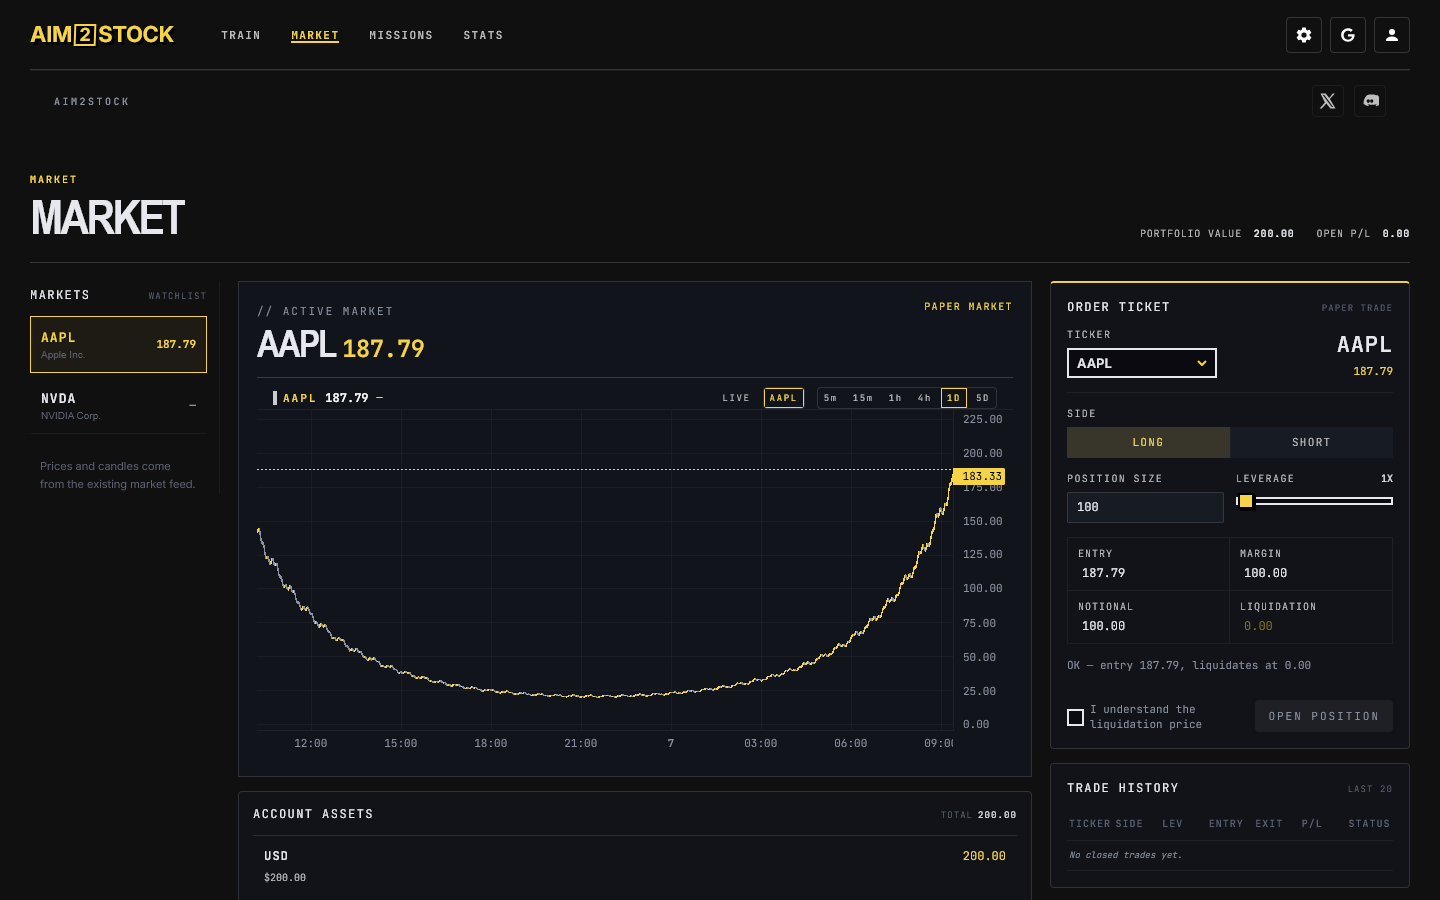
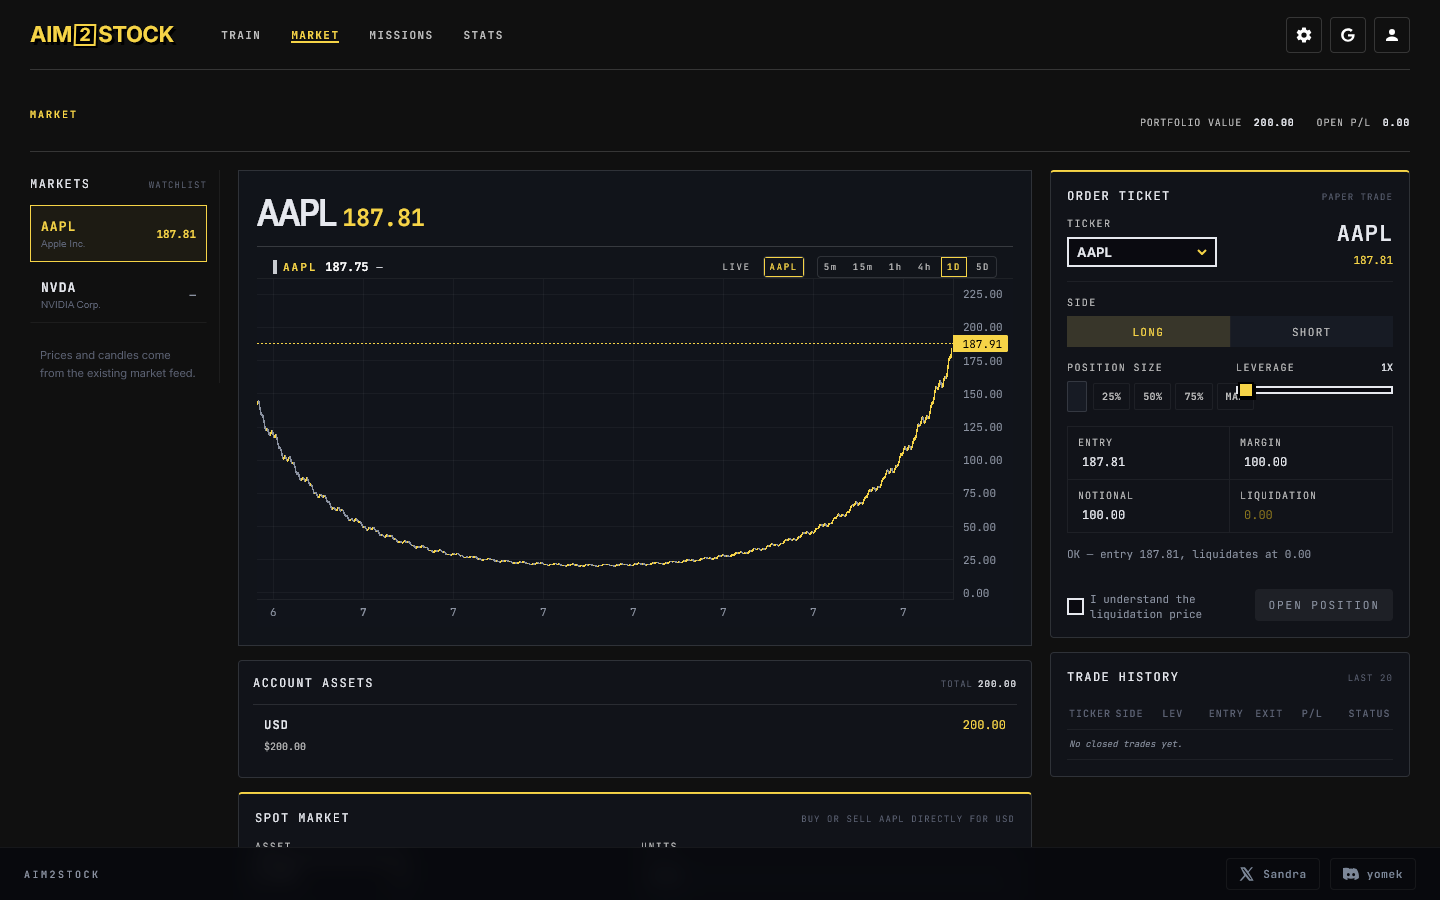
ui cleanup: remove Market/active Market/PAPER dups, add Open balance button in Portfolio, fix chart intraday timeVisible per range

diff --git a/client/index.html b/client/index.html
@@ -31,7 +31,7 @@
 <!-- aim2stock: trading workspace. It lives inside the shared dashboard shell. -->
 <div id="vibes-terminal" hidden>
   <div class="vt-body">
-    <div class="workspace-heading"><div><span class="section-kicker">Market</span><h1>Market</h1></div><div class="workspace-metrics"><span>Portfolio value <b class="num" data-vt-portfolio-total>—</b></span><span>Open P/L <b class="num" data-vt-open-pnl>—</b></span></div></div>
+    <div class="workspace-heading"><div><span class="section-kicker">Market</span></div><div class="workspace-metrics"><span>Portfolio value <b class="num" data-vt-portfolio-total>—</b></span><span>Open P/L <b class="num" data-vt-open-pnl>—</b></span></div></div>
     <aside class="vt-watchlist">
       <div class="vt-section-head"><span>Markets</span><small>Watchlist</small></div>
       <button type="button" class="vt-watch active" data-vt-watch="AAPL"><span><b>AAPL</b><small>Apple Inc.</small></span><strong data-vt-watch-price="AAPL">—</strong></button>
@@ -41,7 +41,7 @@
 
     <main class="vt-market-center">
       <section class="vt-chart-shell">
-        <div class="vt-chart-head"><div><span class="vt-kicker">// active market</span><h1><span data-vt-market-ticker>AAPL</span> <em data-vt-market-price>—</em></h1></div><span class="vt-market-state">PAPER MARKET</span></div>
+        <div class="vt-chart-head"><div><h1><span data-vt-market-ticker>AAPL</span> <em data-vt-market-price>—</em></h1></div></div>
         <div class="vt-chart-slot" data-vt-chart-slot></div>
       </section>
       <section class="vt-section vt-assets">
@@ -66,7 +66,7 @@
         <div class="vt-section-head"><span>Order ticket</span><small>Paper trade</small></div>
         <div class="vt-order-market"><div><span class="vt-field-label">Ticker</span><select data-vt-ot-ticker><option value="AAPL">AAPL</option><option value="NVDA">NVDA</option></select></div><div class="vt-order-quote"><strong data-vt-ot-symbol>AAPL</strong><span data-vt-ot-price>—</span></div></div>
         <div class="vt-order-field"><span class="vt-field-label">Side</span><div class="vt-side-toggle" role="group" aria-label="Position side"><button type="button" data-vt-side-choice="long" class="active">Long</button><button type="button" data-vt-side-choice="short">Short</button></div><select data-vt-ot-side class="vt-side-native" aria-hidden="true" tabindex="-1"><option value="long">long</option><option value="short">short</option></select></div>
-        <div class="vt-order-field-grid"><label class="vt-control"><span class="vt-field-label">Position size</span><input type="number" min="10" step="10" value="100" data-vt-ot-notional></label><label class="vt-control"><span class="vt-field-label">Leverage <b class="num" data-vt-ot-leverage-num>1x</b></span><input type="range" min="1" max="20" step="1" value="1" data-vt-ot-leverage></label></div>
+        <div class="vt-order-field-grid"><label class="vt-control"><span class="vt-field-label">Position size</span><span class="vt-input-row"><input type="number" min="10" step="10" value="100" data-vt-ot-notional><span class="vt-pct-row" role="group" aria-label="Position size percent"><button type="button" data-vt-ot-pct="25">25%</button><button type="button" data-vt-ot-pct="50">50%</button><button type="button" data-vt-ot-pct="75">75%</button><button type="button" data-vt-ot-pct="100">MAX</button></span></span></label><label class="vt-control"><span class="vt-field-label">Leverage <b class="num" data-vt-ot-leverage-num>1x</b></span><input type="range" min="1" max="20" step="1" value="1" data-vt-ot-leverage></label></div>
         <div class="vt-readout"><div><span>Entry</span><strong class="num" data-vt-ot-entry>—</strong></div><div><span>Margin</span><strong class="num" data-vt-ot-margin>—</strong></div><div><span>Notional</span><strong class="num" data-vt-ot-notional-total>—</strong></div><div class="neg"><span>Liquidation</span><strong class="num" data-vt-ot-liq>—</strong></div></div>
         <div class="vt-status" data-vt-ot-status>Pick a ticker to load the live price.</div>
         <div class="vt-confirm"><label><input type="checkbox" data-vt-ot-confirm-chk> I understand the liquidation price</label><button type="button" class="vt-btn vt-btn-primary" data-vt-ot-submit disabled>Open position</button></div>
@@ -177,9 +177,9 @@
 
         <aside class="market-column" data-dashboard-section-target="market">
           <section class="portfolio-panel">
-            <div class="panel-heading compact"><div><span class="section-kicker">Portfolio</span><h2>Your position</h2></div><span class="live-state"><i></i> PAPER</span></div>
+            <div class="panel-heading compact"><div><span class="section-kicker">Portfolio</span><h2>Holdings</h2></div><button type="button" class="panel-action" id="vibes-open-balance">Open balance</button></div>
             <div class="portfolio-total"><span data-dashboard-portfolio-total>200.00</span><small>USD portfolio total</small></div>
-            <div class="portfolio-line"></div>
+            <div class="portfolio-tokens" data-dashboard-tokens aria-label="Token balances"></div>
           </section>
 
           <section class="market-panel">
@@ -358,6 +358,7 @@
   document.querySelector('[data-dashboard-home]')?.addEventListener('click', () => setWorkspace('train'));
   document.querySelectorAll('[data-dashboard-section]').forEach((link) => link.addEventListener('click', () => setWorkspace(link.dataset.dashboardSection)));
   document.getElementById('vibes-open-terminal-secondary')?.addEventListener('click', () => setWorkspace('market'));
+  document.getElementById('vibes-open-balance')?.addEventListener('click', () => setWorkspace('market'));
   document.querySelectorAll('[data-vt-watch]').forEach((watch) => watch.addEventListener('click', () => {
     const ticker = watch.dataset.vtWatch;
     const chartTicker = chartPanel?.querySelector(`[data-vc-ticker-btn="${ticker}"]`);

diff --git a/client/css/style.css b/client/css/style.css
@@ -886,6 +886,31 @@ canvas#game {
 #menu .live-state { color: var(--dash-accent); font: 9px var(--font-mono); letter-spacing: .12em; }
 #menu .live-state i { display: inline-block; width: 5px; height: 5px; border-radius: 50%; background: var(--dash-accent); margin-right: 5px; vertical-align: 1px; }
 #menu .portfolio-total { margin-top: 20px; color: var(--fg); font: 600 34px var(--font-mono); letter-spacing: -.05em; }
+/* Order ticket: input row with percentage quick-buttons stacked on the right.
+   Mirrors the layout used by Binance / Uniswap for fast percentage picks. */
+.vt-input-row { display: flex; align-items: center; gap: 6px; flex: 1; }
+.vt-input-row > input { flex: 1; min-width: 0; }
+.vt-pct-row { display: inline-flex; gap: 4px; }
+.vt-pct-row button {
+  padding: 6px 8px;
+  background: transparent;
+  border: 1px solid var(--line);
+  color: var(--dash-muted);
+  font: 700 10px var(--font-mono);
+  letter-spacing: .04em;
+  border-radius: 2px;
+  cursor: pointer;
+  transition: color .12s ease, border-color .12s ease, background .12s ease;
+}
+.vt-pct-row button:hover { color: var(--accent); border-color: var(--accent); }
+.vt-pct-row button.active { color: #f6d447; border-color: #f6d447; background: rgba(246,212,71,.08); }
+#menu .portfolio-tokens { display: flex; flex-wrap: wrap; gap: 8px; margin-top: 16px; }
+#menu .tok-card { flex: 1 1 calc(33.333% - 8px); min-width: 110px; padding: 10px 12px; background: rgba(246,212,71,.04); border: 1px solid rgba(246,212,71,.18); box-shadow: 2px 2px 0 #000; }
+#menu .tok-card.tok-free { background: rgba(255,255,255,.025); border-color: var(--line); }
+#menu .tok-symbol { font: 700 13px var(--font-mono); letter-spacing: .06em; color: var(--accent); }
+#menu .tok-card.tok-free .tok-symbol { color: var(--fg); }
+#menu .tok-name { font-size: 9px; letter-spacing: .18em; color: var(--dim); text-transform: uppercase; margin-top: 2px; }
+#menu .tok-qty { font: 600 16px var(--font-mono); color: var(--fg); margin-top: 4px; letter-spacing: -.02em; }
 #menu .portfolio-total small, #menu .portfolio-change small { display: block; color: var(--dash-muted); font: 10px var(--font-mono); letter-spacing: .08em; margin-top: 5px; }
 #menu .portfolio-change { margin-top: 22px; color: var(--dash-accent); font: 600 18px var(--font-mono); }
 #menu .portfolio-line { height: 32px; margin-top: 20px; opacity: .7; background: linear-gradient(155deg, transparent 4%, transparent 18%, rgba(246,212,71,.15) 19%, rgba(246,212,71,.6) 21%, transparent 22%, transparent 37%, rgba(246,212,71,.35) 38%, rgba(246,212,71,.6) 40%, transparent 41%, transparent 52%, rgba(246,212,71,.35) 53%, rgba(246,212,71,.55) 55%, transparent 56%, transparent 68%, rgba(246,212,71,.3) 69%, rgba(246,212,71,.5) 71%, transparent 72%); border-bottom: 1px solid rgba(246,212,71,.25); }
@@ -1546,7 +1571,7 @@ canvas, #game, #crosshair, #hitmarker { -webkit-user-select: none; user-select: 
 #menu .app-shell > #vibes-missions .vm-status { color: var(--dash-muted); text-transform: uppercase; letter-spacing: .1em; }
 #menu .app-shell > #vibes-missions .vm-status.done { color: #f6d447; }
 #menu .app-shell > #vibes-missions .vm-status.claimed { color: var(--dash-muted); }
-#menu .app-shell > #vibes-missions .vm-claim-btn { margin-left: auto; padding: 3px 8px; border: 1px solid rgba(246,212,71,.55); border-radius: 2px; background: transparent; color: #f6d447; font: 10px var(--font-mono); letter-spacing: .13em; text-transform: uppercase; cursor: pointer; }
+#menu .app-shell > #vibes-missions .vm-claim-btn { margin-left: auto; padding: 8px 14px; border: 1px solid rgba(246,212,71,.55); border-radius: 2px; background: transparent; color: #f6d447; font: 10px var(--font-mono); letter-spacing: .13em; text-transform: uppercase; cursor: pointer; white-space: nowrap; }
 #menu .app-shell > #vibes-missions .vm-claim-btn:hover { background: rgba(246,212,71,.1); }
 #menu .app-shell > #vibes-missions .vm-progress { width: 100%; max-width: none; height: 3px; margin-top: 10px; border-radius: 0; background: rgba(160,174,194,.14); }
 #menu .app-shell > #vibes-missions .vm-bar { background: #f6d447; box-shadow: none; }

diff --git a/client/js/game.js b/client/js/game.js
@@ -743,6 +743,37 @@ export function boot() {
     }
     const recent = history.slice().sort((a, b) => (b.d || 0) - (a.d || 0));
     const latest = recent[0];
+
+    // Token balance cards (USD / AAPL / NVDA / ...). Reads straight from
+    // the store which is kept in sync by /portfolio. Only renders tokens
+    // that actually have a non-zero balance so the panel stays tidy.
+    const tokensEl = document.querySelector('[data-dashboard-tokens]');
+    if (tokensEl) {
+      const s = window.store && window.store.state;
+      const balances = (s && s.balances) || {};
+      const stable = (s && s.player && Number(s.player.stable)) || 0;
+      const cards = [];
+      // Stable coin first so the user always sees their cash position.
+      cards.push({ sym: 'USD', name: 'USD stable', qty: stable, kind: 'free' });
+      // Then every held ticker (only if balance is non-zero).
+      const tickers = Object.keys(balances)
+        .filter((t) => t !== 'USD' && balances[t] > 0)
+        .map((t) => ({ sym: t, qty: balances[t] }));
+      const nameOf = (sym) => (sym === 'AAPL' ? 'Apple Inc.' : sym === 'NVDA' ? 'NVIDIA Corp.' : sym);
+      for (const t of tickers) {
+        cards.push({ sym: t.sym, name: nameOf(t.sym), qty: t.qty, kind: 'token' });
+      }
+      tokensEl.innerHTML = cards.map((c) => {
+        const qtyText = c.sym === 'USD' ? c.qty.toFixed(2) : c.qty.toFixed(4);
+        const kindClass = c.kind === 'free' ? 'tok-free' : 'tok-token';
+        return `<div class="tok-card ${kindClass}" data-tok-symbol="${c.sym}">
+          <div class="tok-symbol">${c.sym}</div>
+          <div class="tok-name">${c.name}</div>
+          <div class="tok-qty"><b>${qtyText}</b></div>
+        </div>`;
+      }).join('');
+    }
+
     const put = (selector, value) => document.querySelectorAll(selector).forEach(el => { el.textContent = value; });
     const records = document.querySelector('[data-mode-records]');
     if (records) {
@@ -770,17 +801,21 @@ export function boot() {
       }).join('') : '<div class="stats-empty">No sessions yet. Finish a run to create the first record.</div>';
     }
     put('[data-dashboard-sessions]', String(recent.length));
-    put('[data-dashboard-best]', recent.length ? String(Math.max(...recent.map(h => h.score || 0))) : '—');
-    if (latest) {
-      put('[data-recent-mode]', MODE_DEFS[latest.m]?.name || latest.m || 'SESSION');
-      put('[data-recent-score]', String(latest.score || 0));
-      put('[data-recent-accuracy]', (latest.acc ?? 0) + '%');
-    }
-  }
-  function bandStr(g) {
-    return g.bands.map(([r, h, b, l]) => `${r >= 999 ? '50m+' : '0–' + r + 'm'}: ${h}/${b}/${l}`).join(' · ');
-  }
-  function renderLoadout() {
+        put('[data-dashboard-best]', recent.length ? String(Math.max(...recent.map(h => h.score || 0))) : '—');
+        if (latest) {
+          put('[data-recent-mode]', MODE_DEFS[latest.m]?.name || latest.m || 'SESSION');
+          put('[data-recent-score]', String(latest.score || 0));
+          put('[data-recent-accuracy]', (latest.acc ?? 0) + '%');
+        }
+        // Expose for non-module callers (the dashboard token-card subscription
+        // in src/bootstrap.js calls window.renderMenuStats on every store
+        // emit so balances refresh without reopening the menu).
+        if (typeof window !== 'undefined') window.renderMenuStats = renderMenuStats;
+      }
+      function bandStr(g) {
+        return g.bands.map(([r, h, b, l]) => `${r >= 999 ? '50m+' : '0–' + r + 'm'}: ${h}/${b}/${l}`).join(' · ');
+      }
+      function renderLoadout() {
     const clsSel = $('lo-class'), gunSel = $('lo-gun');
     if (!clsSel.options.length) {
       GUN_CLASSES.forEach(c => { const o = document.createElement('option'); o.value = c; o.textContent = c; clsSel.appendChild(o); });

diff --git a/client/js/terminal.js b/client/js/terminal.js
@@ -415,16 +415,38 @@ export function mountTerminal({ root, onClose } = {}) {
     });
   }
   if (els.otNotional) {
-    els.otNotional.addEventListener('input', () => {
-      const n = clampNotional(els.otNotional.value, 1e7);
-      state.notional = n;
-      renderPreview();
+      els.otNotional.addEventListener('input', () => {
+        const n = clampNotional(els.otNotional.value, 1e7);
+        state.notional = n;
+        renderPreview();
+      });
+    }
+    // Percentage quick-buttons (25/50/75/MAX). Sets notional to a fixed
+    // fraction of the player's USD stable balance and updates the preview.
+    // MAX caps at the smaller of (1e7, balance * leverage) so the player
+    // can never borrow beyond what they can actually back with stable.
+    const pctBtns = panel.querySelectorAll('[data-vt-ot-pct]');
+    pctBtns.forEach((btn) => {
+      btn.addEventListener('click', () => {
+        const pct = Number(btn.dataset.vtOtPct);
+        if (!Number.isFinite(pct)) return;
+        const stable = (store.state && store.state.player && Number(store.state.player.stable)) || 0;
+        const lev = Number(state.leverage) || 1;
+        const maxByLev = Math.min(1e7, stable * Math.max(1, lev));
+        const pctAmt = pct === 100 ? maxByLev : Math.max(1, Math.floor((maxByLev * pct) / 100));
+        if (els.otNotional) {
+          els.otNotional.value = String(clampNotional(pctAmt, 1e7));
+          state.notional = clampNotional(pctAmt, 1e7);
+        }
+        // Visually toggle the active state on the percentage buttons.
+        pctBtns.forEach((b) => b.classList.toggle('active', b === btn));
+        renderPreview();
+      });
     });
-  }
-  if (els.convertTicker) {
-    els.convertTicker.addEventListener('change', refreshConvertQuote);
-  }
-  panel.querySelectorAll(SELECTORS.spotSide).forEach((button) => {
+    if (els.convertTicker) {
+      els.convertTicker.addEventListener('change', refreshConvertQuote);
+    }
+    panel.querySelectorAll(SELECTORS.spotSide).forEach((button) => {
     button.addEventListener('click', () => {
       state.spotSide = button.dataset.vtSpotSide;
       panel.querySelectorAll(SELECTORS.spotSide).forEach((b) => b.classList.toggle('active', b === button));
@@ -455,11 +477,23 @@ export function mountTerminal({ root, onClose } = {}) {
   // Subscribe to store changes
   const unsub = store.subscribe(() => refreshAll());
 
-  // First paint
-  refreshAll();
-  refreshQuote();
-  // Re-quote every 5s so the entry price stays fresh
-  const quoteTimer = setInterval(refreshQuote, 5000);
+  // First paint. If the store hasn't been hydrated yet (cold start, no
+    // prior refresh), fetch the defaults before rendering so we don't
+    // paint the empty holdings view first.
+    if (typeof store.refresh === 'function') {
+      const refreshPromise = (!store.state || !store.state.ready)
+        ? store.refresh().catch(() => {})
+        : Promise.resolve();
+      refreshPromise.then(() => {
+        refreshAll();
+        refreshQuote();
+      });
+    } else {
+      refreshAll();
+      refreshQuote();
+    }
+    // Re-quote every 5s so the entry price stays fresh
+    const quoteTimer = setInterval(refreshQuote, 5000);
 
   function unmount() {
     clearInterval(quoteTimer);

diff --git a/client/js/chart.js b/client/js/chart.js
@@ -47,6 +47,14 @@ export function accentColor(t) {
   return '#c9ccd1';
 }
 
+// True when the range spans hours rather than days. Used to decide
+// whether the chart axis labels should show HH:MM (intraday) or a date
+// (1D/5D).
+export function isIntraday(range) {
+  if (!range) return false;
+  return /^(\d+)?[mM]$/.test(range) || /^(\d+)?[hH]$/.test(range);
+}
+
 export function fmtPrice(n) {
   if (n == null || !Number.isFinite(n)) return '—';
   return n.toFixed(2);
@@ -174,7 +182,7 @@ export function mountChart({ root, ticker = 'AAPL', range = '1D' } = {}) {
         vertLines: { color: 'rgba(255,255,255,0.04)' },
         horzLines: { color: 'rgba(255,255,255,0.04)' },
       },
-      timeScale: { timeVisible: true, secondsVisible: false, borderColor: 'rgba(255,255,255,0.06)' },
+      timeScale: { timeVisible: isIntraday(range), secondsVisible: false, borderColor: 'rgba(255,255,255,0.06)' },
       rightPriceScale: { borderColor: 'rgba(255,255,255,0.06)' },
       crosshair: { mode: 1 },
       autoSize: true,
@@ -284,12 +292,17 @@ export function mountChart({ root, ticker = 'AAPL', range = '1D' } = {}) {
     setActiveTicker(t);
   }));
   els.rangeBtns.forEach((b) => b.addEventListener('click', () => {
-    const r = b.dataset.vcRangeBtn;
-    if (!r || r === active.range) return;
-    active.range = r;
-    els.rangeBtns.forEach((x) => x.classList.toggle('active', x === b));
-    loadCandles();
-  }));
+      const r = b.dataset.vcRangeBtn;
+      if (!r || r === active.range) return;
+      active.range = r;
+      els.rangeBtns.forEach((x) => x.classList.toggle('active', x === b));
+      // Show time (HH:MM) only for intraday ranges. Daily+ should be
+      // a date label (Oct 6), which is LWC's default when timeVisible:false.
+      if (chart) {
+        try { chart.timeScale().applyOptions({ timeVisible: isIntraday(r) }); } catch (_) { /* noop */ }
+      }
+      loadCandles();
+    }));
 
   // The ticker buttons live in the markup (AAPL, NVDA). This re-renders
   // them based on the player's unlocks. AAPL is always visible (it's the

diff --git a/client/src/bootstrap.js b/client/src/bootstrap.js
@@ -2,13 +2,24 @@
 // before the UI modules mount. Each panel subscribes to the store, so
 // the first render is the real server data, not an empty placeholder.
 
-import { store } from './store.js?v=20261006-4';
+import { store } from './store.js?v=20261006-7';
 
 if (typeof window !== 'undefined') {
   // Expose the store globally so legacy game.js render hooks (e.g. the
   // end-of-run Combat Report) can read fresh player/mission state without
   // having to refactor the whole engine into ESM imports.
   window.store = store;
+
+  // Re-render the dashboard token cards whenever the store emits. The
+  // dashboard cards live in client/js/game.js renderMenuStats(); we
+  // invoke it from here so any state change (balance, stable, missions)
+  // is reflected without the menu having to be reopened.
+  store.subscribe(() => {
+    try {
+      if (typeof window.renderMenuStats === 'function') window.renderMenuStats();
+    } catch (_) { /* game.js may not have booted yet; safe to ignore */ }
+  });
+
   // Kick off the first refresh. Errors are swallowed (the boot banner
   // already shows a retry/Skip UI when the server is unreachable).
   queueMicrotask(() => { store.refresh().catch(() => {}); });
